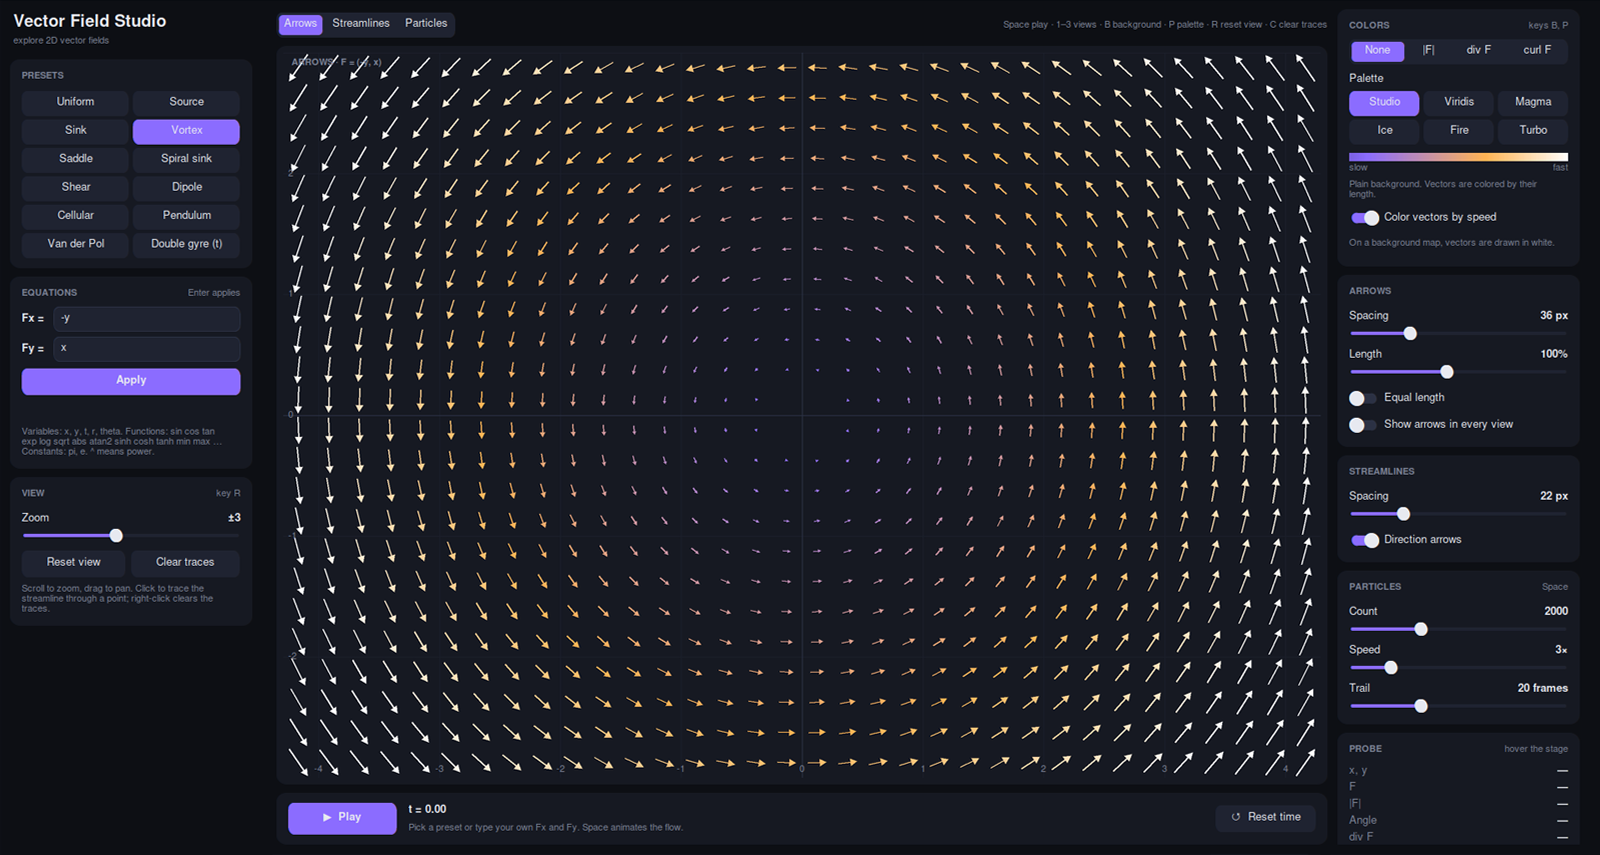
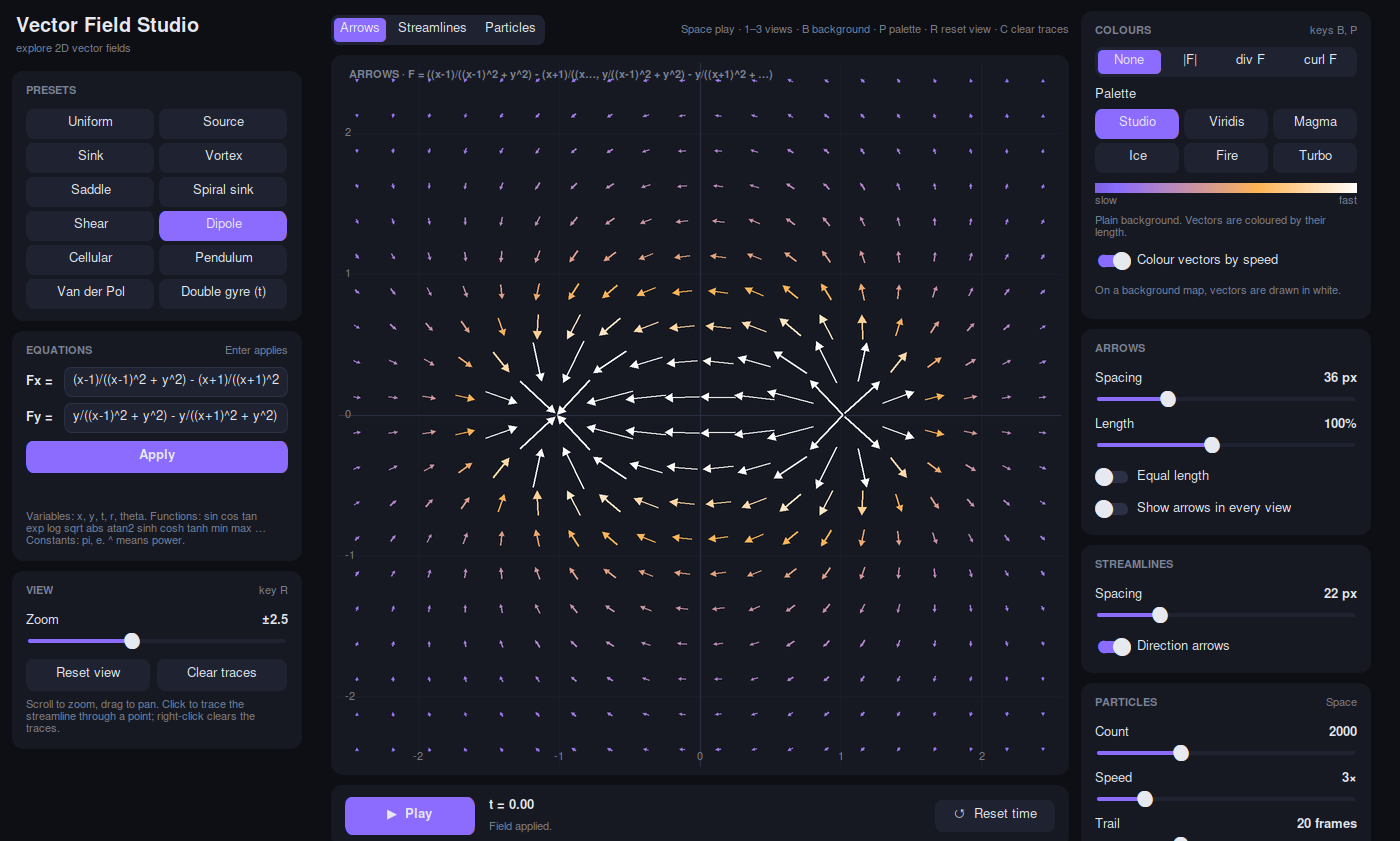
Add the example GIFs to the README

diff --git a/README.md b/README.md
@@ -24,9 +24,9 @@ It shares its look with [Pixel Sort Studio](https://github.com/omroz14/Pixel-sor
 
 ## Demo
 
-| Particles | Double gyre | Custom field |
+| Vortex · Ice | Van der Pol · Magma | Double gyre · Fire |
 |:---:|:---:|:---:|
-| ![Particle trails](docs/images/anim-particles.gif) | ![Double gyre over time](docs/images/anim-double-gyre.gif) | ![Custom equations](docs/images/anim-custom.gif) |
+| ![Vortex with the Ice palette](docs/images/vortex_ice.gif) | ![Van der Pol oscillator with the Magma palette](docs/images/van_der_pol_magma.gif) | ![Double gyre with the Fire palette](docs/images/double_gyre_fire.gif) |
 
 ## Contents
 
